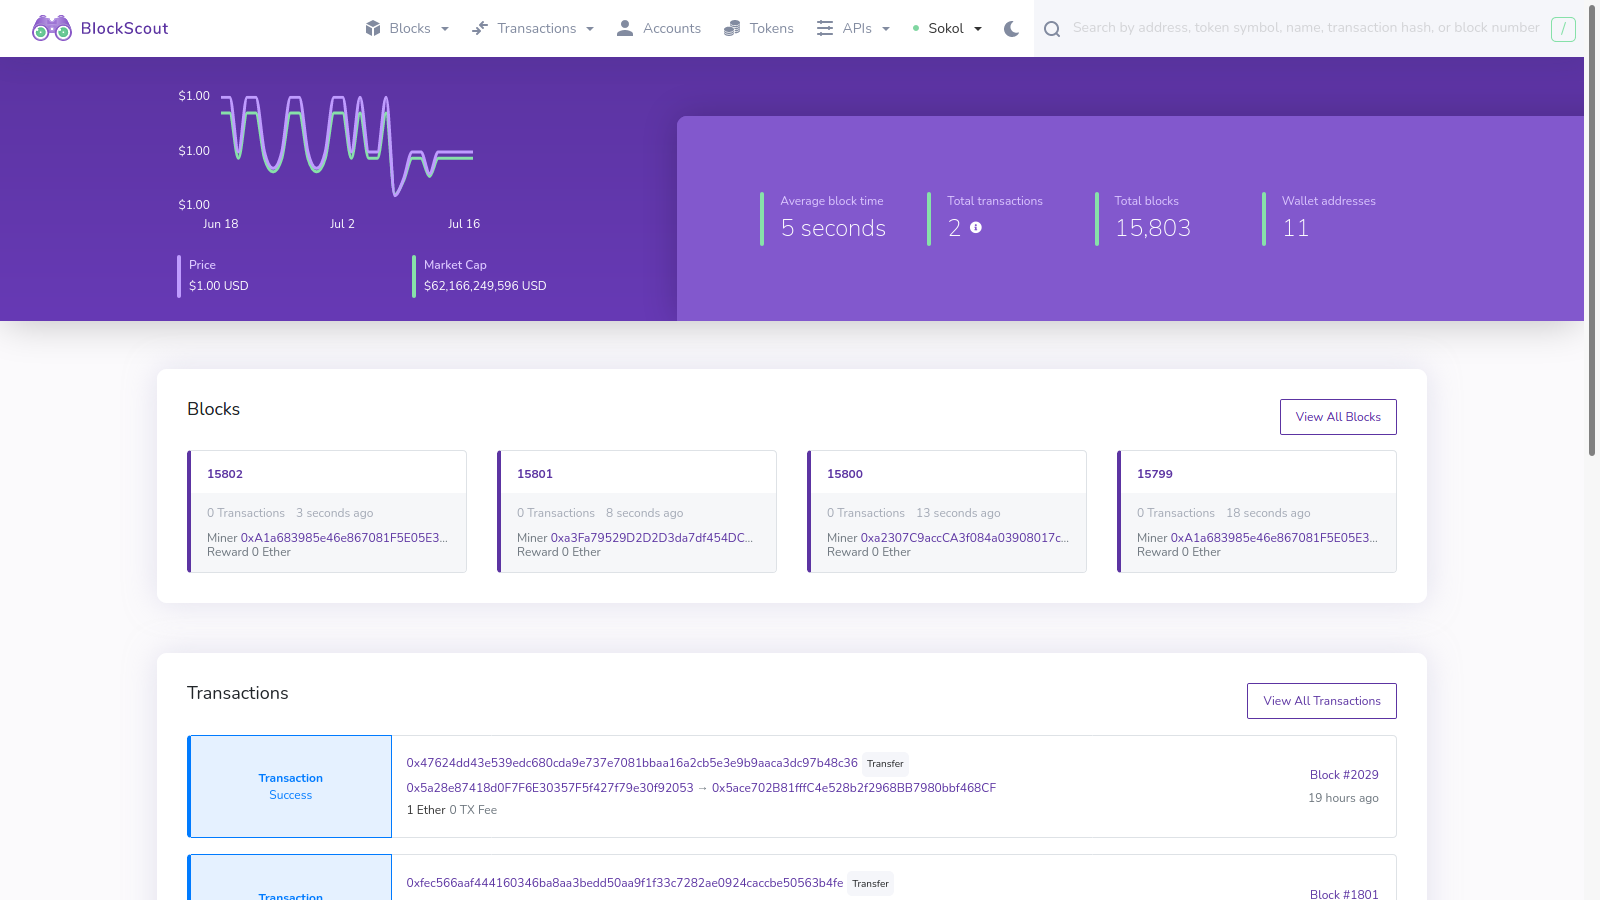
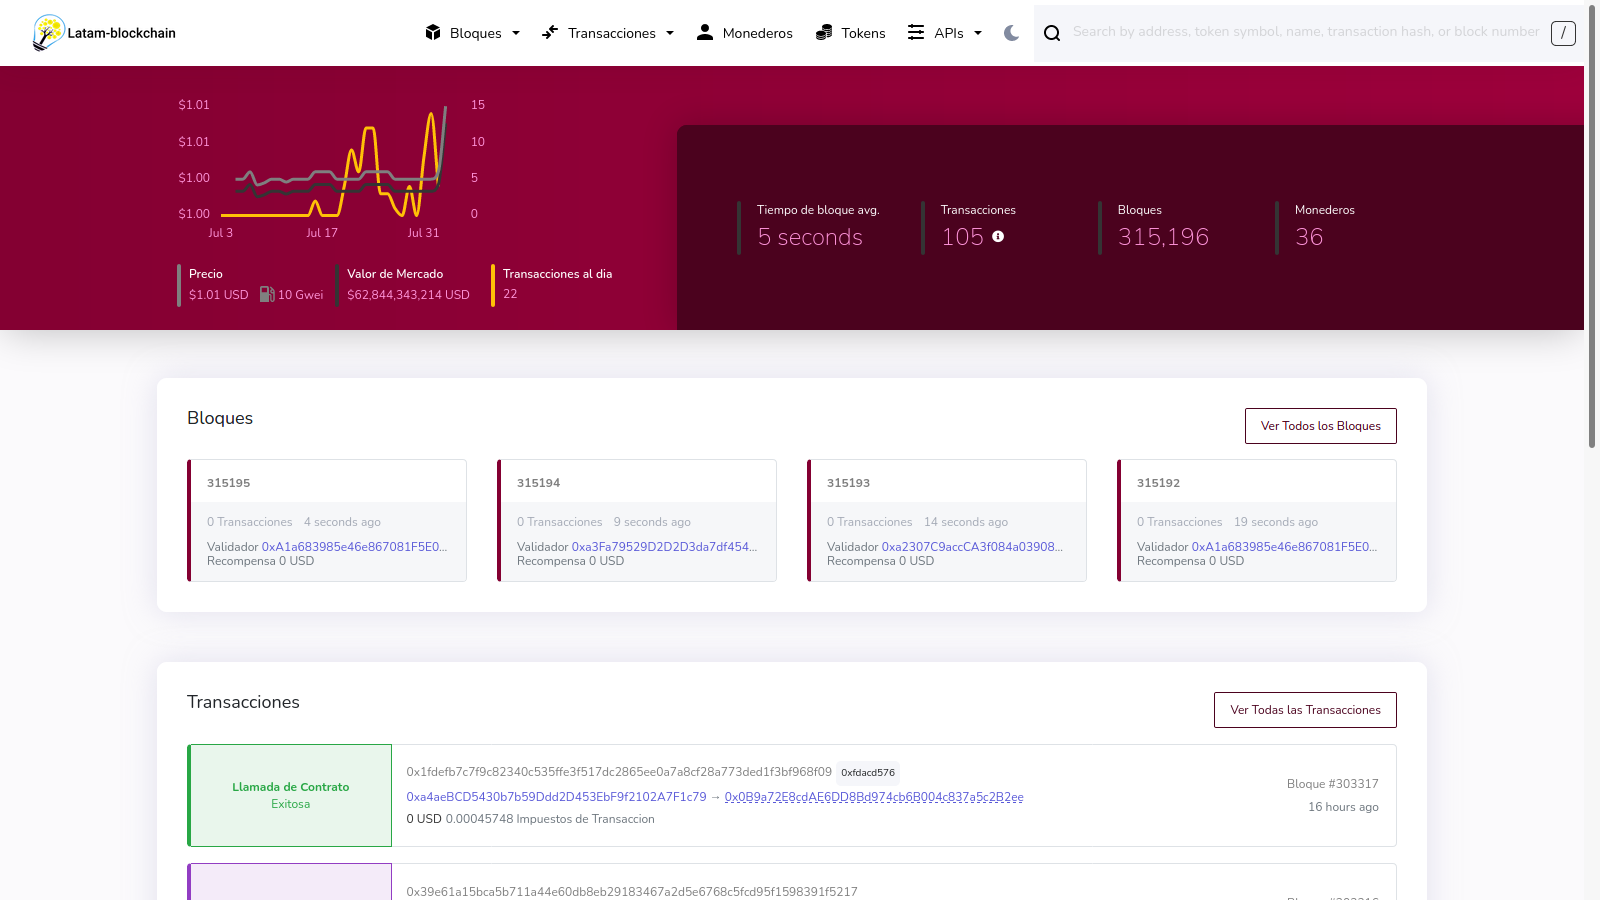
add info

diff --git a/sobre-latam-blockchain/hoja-de-ruta.md b/sobre-latam-blockchain/hoja-de-ruta.md
@@ -22,15 +22,29 @@ Repositorio publico de la organización para desarrollo descentralizado y manual
 
 Resil Testnet Jul 18, 2021 Bloque \#32.600.
 
-Para mantener la compatibilidad con la red de Ethereum están implementados los siguientes EIPs: 140 211 214 658 145 1014 1052 1283 1344 1706 1884 2028 2929 2930
+* Para mantener la compatibilidad con la red de Ethereum están implementados los siguientes EIPs: 140 211 214 658 145 1014 1052 1283 1344 1706 1884 2028 2929 2930
 
-Latam-Blockchain Resil soporta los clientes OpenEthereum\(antiguo Parity\) y Nethermind
+* Precio del Gas _"impuesto transacional"_ 10 Gwei ~ 0.0002 USD por transacciones regulares
+
+* Velocidad transaccional ~ 5 segundos 
+
+* Tamaño del Bloque 8.000.000 
+
+* Latam-Blockchain Resil soporta los clientes OpenEthereum\(antiguo Parity\) y Nethermind
+
+{% hint style="info" %}
+_WIP_ agregar aqui link al repositorio chain_specs
+{% endhint %}
 
 ## Explorador de Bloques
 
 🎯 **Meta:** Q3 2021 ✅ **Completado**
 
 Explorador de bloques, APIs de servicio y herramientas de análisis para la red Resil Testnet.
+
+{% hint style="info" %}
+_WIP_ traduciendo al castellano
+{% endhint %}
 
 {% embed url="https://explorer.latam-blockchain.com/" caption="" %}
 

diff --git a/README.md b/README.md
@@ -19,7 +19,7 @@ Participar en la red Resil de Latam-Blockchain te ayudará a experimentar y crea
 
 * ✅ Red, cadena de bloques y protocolo ajustado a las necesidades de la región.
 * ✅ Confirmación de transacciones de \(5 segundos\).
-* ✅ Impuesto transaccional de \($ 0.005\).
+* ✅ Impuesto transaccional de \(~$ 0.0002\).
 * ✅ Dinero digital. Una cadena con USDT\(Tether\) como moneda del sistema es ideal para aplicaciones de intercambio de valor.
 * ✅ Cadena de bloques eficiente y compatible con el ahorro energético.
 * ✅ Acceso a los mercados internacionales y liquidez a través de USDT\(Tether\) en todas sus cadenas & redes.
